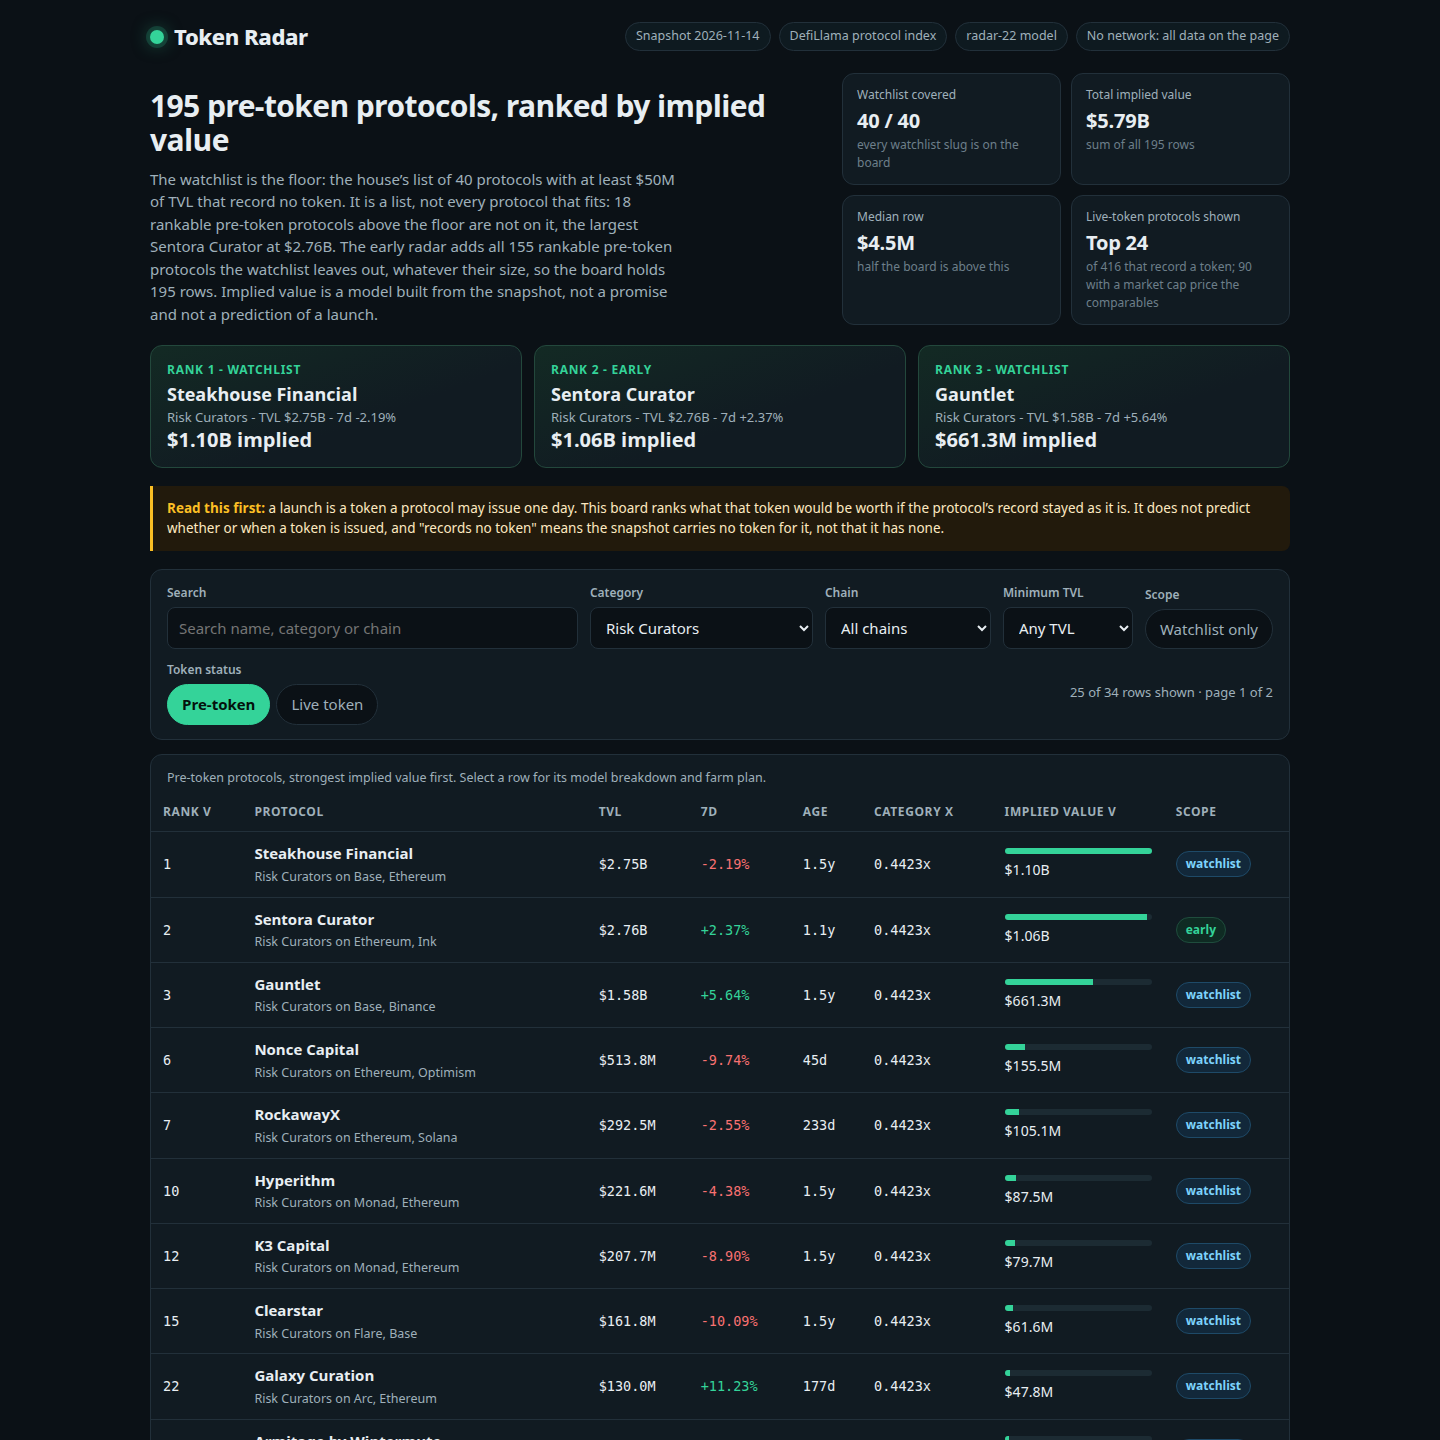
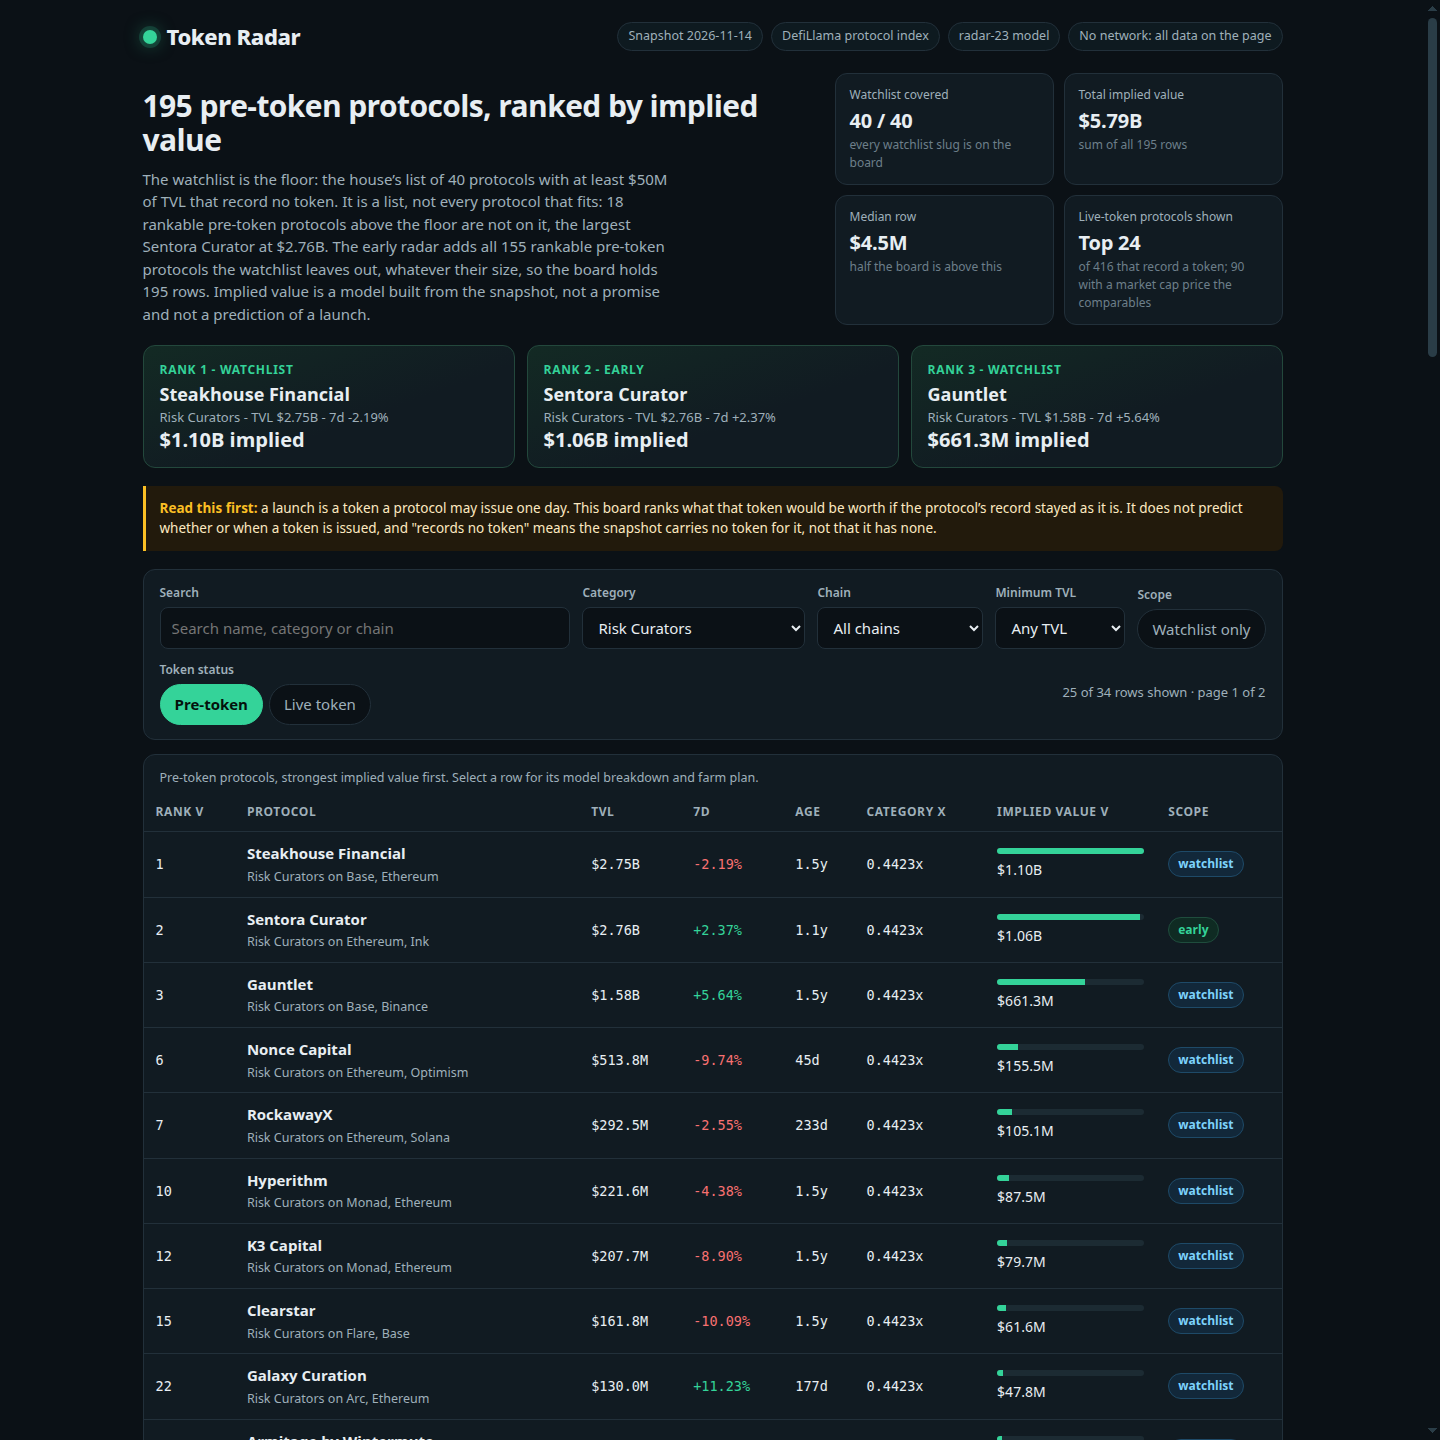
Token Radar radar-23: fix the radar-22 counts, label the correction rounds, say rich single-peer categories

diff --git a/dashboard/app.js b/dashboard/app.js
@@ -1,4 +1,4 @@
-// Token Radar's dashboard (radar-22). It reads window.RADAR (written beside
+// Token Radar's dashboard (radar-23). It reads window.RADAR (written beside
 // dashboard/ by main.ts from the same board.json) and renders the ranked
 // board, the filters, a per-protocol detail view with the model's own
 // breakdown and the protocol's farm plan, and the live-token set kept apart.
@@ -437,8 +437,8 @@
     return el('section', { class: 'panel model' },
       el('h2', { text: 'How implied value is computed' }),
       el('p', { class: 'sub', text: 'Every row is scored by one function of the snapshot figures. The scoring never special-cases a protocol name, and no row is hand-picked. The comparable is the median market-cap-to-TVL ratio of the live-token protocols in the same category, computed from this snapshot at run time, then shrunk toward the market median in log space with a weight of ' + m.shrink_peers + ' peers: ratios multiply, so the shrinkage averages logarithms, and the raw median is never clamped before shrinking. A category with one live peer never prices at its peer\'s ratio, and a category with no live peer uses the market median outright.' }),
-      el('p', { class: 'sub', text: 'The shrinkage is not a guess at a weight: ' + thin + ' of the ' + thinTotal + ' categories priced here have fewer than three live peers, so most multiples would rest on one or two protocols without it. Shrinking in log space matters because the old arithmetic shrink clamped the raw median first: seven single-peer categories, from Options at 1.51x to Prediction Market at 400.20x, all priced at one identical multiple, and a category whose peers trade at 0.002x was lifted to the market by the floor. Now each prices from its own peer, still pulled most of the way to the market, and still capped. With no shrinkage the Risk Curators rows would all price at the 0.80 cap on a single peer; shrunk, they price at ' + (DATA.multiples['Risk Curators'] === undefined ? 'the market median' : DATA.multiples['Risk Curators'].toFixed(4) + 'x') + '.' }),
-      el('p', { class: 'sub', text: 'Farm plans follow the protocol\u2019s category — except where the snapshot\u2019s own record mislabels the protocol, and then the plan follows the protocol\u2019s own documentation instead. Twenty-six plans are corrected that way, in one table in the code: Hive Protocol is B\u00b2 Hive, a BTC staking pool listed as a chain, so its plan stakes BTC for B2 rewards; Firelight is the underwriting side of a cover design listed as insurance, so its plan stakes FXRP for stXRP; Mezo Earn locks BTC for a veBTC vote, not USDC in a governance vault; Abstract is its own Ethereum L2, not Ethereum mainnet, so its plan runs on Abstract; USDD\u2019s vaults take TRX, USDT or WBTC as collateral, never USDC, and its yield comes from sUSDD; DeFi Saver is a management layer that takes no deposits, so its plan opens a position through it and automates it; Bittensor dTAO is a staking system, not an AMM pool, so its plan stakes TAO for alpha; and Polymarket runs no points program, so its plan checks the rewards page that pays in pUSD instead of a claim page. Thirteen more joined them in the last round: seven CDP plans named USDC as collateral where the vaults take something else — Felix takes HYPE to mint feUSD, Bucket takes SUI to mint BUCK, BIMA and BTCFi take BTC to mint USBD and BtcUSD, Kava Mint takes BTC to mint USDX, Monolith takes ETH to borrow Coin, and Swan DAO takes wstETH to mint swanUSD — and six more shapes named the wrong asset: Avant avETH mints against ETH, not USDC; Origami\u2019s leveraged vaults take the yield-bearing asset itself, USDe; Boros margin is the market\u2019s own asset, ETH; Granite takes sBTC as collateral and lends USDCx; Solv Strategies takes BTC for SolvBTC; and Exponent Yield Exchange is an exchange, not a vault, so its plan swaps a yield-bearing asset for its principal token instead of depositing USDC. Three more join them in this round: the two Exponent rows the last round left alone — Risk Tranching\u2019s first and largest market is ONyc, so its plan deposits ONyc into the senior tranche for srONyc LP shares, and Strategy Vaults\u2019 largest vault is the RockawayX-managed onycSOL vault, so its plan deposits SOL — and Figure Markets Prime, where the lending shape\u2019s borrow-against-your-supply is wrong on either side, so its plan lends USDC into a Democratized Prime pool instead. Two more join them in this round, and one of those three is refined: Native Credit Pool is a single-sided supply pool for market makers, so its plan supplies USDC and earns the borrow interest instead of borrowing against a deposit; BounceBit Prime is institutional-only with KYC, so its plan starts with qualified-investor onboarding; and Figure Markets Prime\u2019s USDC goes to a margin pool, not the YLDS HELOC pool, which takes YLDS. The eighth CDP row, STRATO, stays on the generic wording because its own litepaper lists USDC as an accepted CDP collateral at 90% LTV. The scoring never names a protocol; these twenty-six are plan corrections, not a hardcoded ranking.' }),
+      el('p', { class: 'sub', text: 'The shrinkage is not a guess at a weight: ' + thin + ' of the ' + thinTotal + ' categories priced here have fewer than three live peers, so most multiples would rest on one or two protocols without it. Shrinking in log space matters because the old arithmetic shrink clamped the raw median first: seven rich single-peer categories, from Options at 1.51x to Prediction Market at 400.20x, all priced at one identical multiple, and a category whose peers trade at 0.002x was lifted to the market by the floor. Now each prices from its own peer, still pulled most of the way to the market, and still capped. With no shrinkage the Risk Curators rows would all price at the 0.80 cap on a single peer; shrunk, they price at ' + (DATA.multiples['Risk Curators'] === undefined ? 'the market median' : DATA.multiples['Risk Curators'].toFixed(4) + 'x') + '.' }),
+      el('p', { class: 'sub', text: 'Farm plans follow the protocol\u2019s category — except where the snapshot\u2019s own record mislabels the protocol, and then the plan follows the protocol\u2019s own documentation instead. Twenty-six plans are corrected that way, in one table in the code: Hive Protocol is B\u00b2 Hive, a BTC staking pool listed as a chain, so its plan stakes BTC for B2 rewards; Firelight is the underwriting side of a cover design listed as insurance, so its plan stakes FXRP for stXRP; Mezo Earn locks BTC for a veBTC vote, not USDC in a governance vault; Abstract is its own Ethereum L2, not Ethereum mainnet, so its plan runs on Abstract; USDD\u2019s vaults take TRX, USDT or WBTC as collateral, never USDC, and its yield comes from sUSDD; DeFi Saver is a management layer that takes no deposits, so its plan opens a position through it and automates it; Bittensor dTAO is a staking system, not an AMM pool, so its plan stakes TAO for alpha; and Polymarket runs no points program, so its plan checks the rewards page that pays in pUSD instead of a claim page. Thirteen more joined them in radar-20: seven CDP plans named USDC as collateral where the vaults take something else — Felix takes HYPE to mint feUSD, Bucket takes SUI to mint BUCK, BIMA and BTCFi take BTC to mint USBD and BtcUSD, Kava Mint takes BTC to mint USDX, Monolith takes ETH to borrow Coin, and Swan DAO takes wstETH to mint swanUSD — and six more shapes named the wrong asset: Avant avETH mints against ETH, not USDC; Origami\u2019s leveraged vaults take the yield-bearing asset itself, USDe; Boros margin is the market\u2019s own asset, ETH; Granite takes sBTC as collateral and lends USDCx; Solv Strategies takes BTC for SolvBTC; and Exponent Yield Exchange is an exchange, not a vault, so its plan swaps a yield-bearing asset for its principal token instead of depositing USDC. Three more joined them in radar-21: the two Exponent rows the last round left alone — Risk Tranching\u2019s first and largest market is ONyc, so its plan deposits ONyc into the senior tranche for srONyc LP shares, and Strategy Vaults\u2019 largest vault is the RockawayX-managed onycSOL vault, so its plan deposits SOL — and Figure Markets Prime, where the lending shape\u2019s borrow-against-your-supply is wrong on either side, so its plan lends USDC into a Democratized Prime pool instead. Two more joined them in radar-22, and one of those three is refined: Native Credit Pool is a single-sided supply pool for market makers, so its plan supplies USDC and earns the borrow interest instead of borrowing against a deposit; BounceBit Prime is institutional-only with KYC, so its plan starts with qualified-investor onboarding; and Figure Markets Prime\u2019s USDC goes to a margin pool, not the YLDS HELOC pool, which takes YLDS. The eighth CDP row, STRATO, stays on the generic wording because its own litepaper lists USDC as an accepted CDP collateral at 90% LTV. The scoring never names a protocol; these twenty-six are plan corrections, not a hardcoded ranking.' }),
       el('div', { class: 'formula' },
         'multiple = exp((peers x ln(categoryMedian) + ' + m.shrink_peers + ' x ln(marketMedian)) / (peers + ' + m.shrink_peers + ')), clamped to [' + m.multiple_floor + ', ' + m.multiple_cap + ']'
       ),

diff --git a/lib/model.ts b/lib/model.ts
@@ -1,4 +1,4 @@
-// Token Radar's model (radar-22): one sealed snapshot in, one ranked board out.
+// Token Radar's model (radar-23): one sealed snapshot in, one ranked board out.
 //
 // The board covers every slug in the snapshot's watchlist (the floor, never a
 // ceiling) plus every other rankable pre-token protocol the watchlist leaves
@@ -122,7 +122,7 @@ export const MODEL: ModelConstants = {
 };
 
 /** The model's version label: the dashboard names it. */
-export const MODEL_VERSION = 'radar-22';
+export const MODEL_VERSION = 'radar-23';
 
 /** How many live-token protocols the Live token view carries, by market cap. */
 export const LIVE_ROWS = 24;
@@ -505,7 +505,7 @@ function holdDaysFor(age: number | null): number {
   return 30;
 }
 
-/** "a" or "an" before a protocol name: the shapes wrote "a" before every name, so ten rows read "into a Upshift vault", "a Armitage", "a Arrakis" and the like. */
+/** "a" or "an" before a protocol name: the shapes wrote "a" before every name, so thirteen rows read "into a Upshift vault", "a Armitage", "a Arrakis" and the like. */
 function articleFor(name: string): string {
   return /^[AEIOU]/i.test(name) ? 'an' : 'a';
 }

diff --git a/main.ts b/main.ts
@@ -1,4 +1,4 @@
-// Token Radar (radar-22): the entry program, Node 22, standard library only.
+// Token Radar (radar-23): the entry program, Node 22, standard library only.
 //
 // It reads the sealed snapshot from /input/snapshot.json (or --input
 // <file|dir>), scores every rankable pre-token protocol with the model in

diff --git a/README.md b/README.md
@@ -6,6 +6,43 @@ staked or bridged product of one that trades, ranks them by what their launch
 would be worth, and hands in a web dashboard with the board, a detail view
 for every protocol, filters, and a farm plan for each row.
 
+## The model (radar-23)
+
+Radar-23 keeps radar-22's formula and every implied value, and fixes
+three places where the entry's own words disagreed with its own
+numbers — all found by rebuilding radar-21 and diffing the boards,
+and by recounting the comparables from the snapshot. First, radar-22
+undercounted its own change: its README said the article fix moved
+10 rows and 13 rows in all, but the radar-21 to radar-22 board diff
+moves 16 rows — the three corrections plus thirteen article rows
+(Upshift, Armitage, UltraYield Curator, infiniFi, August Digital,
+Avant avUSD, Arrakis, IPOR Fusion, Anthias Labs, alphagrowth, Agua,
+UltraYield Vaults and Aftermath afLP) — so the counts now say
+thirteen and sixteen, in the README and in the code's own comment.
+Second, the model panel said seven single-peer categories priced at
+one identical multiple under the old arithmetic shrink, but the
+comparables table holds twelve single-peer categories; only the seven
+whose raw median sits above the cap — Chain, Collateral Management,
+Decentralized AI, NFT Marketplace, Options, Prediction Market and
+Risk Curators — collapsed to that one number, and the five cheaper
+ones never did, so the panel now says seven rich single-peer
+categories, the wording the model's own comment already used.
+Third, the model panel's correction history narrated three different
+rounds as "the last round" and "this round" twice, so a reader could
+not tell which round added which plans; the three groups are now
+labelled radar-20, radar-21 and radar-22. The three radar-22
+corrections themselves were re-verified against their sources:
+Native Credit Pool is a single-sided supply pool for market makers
+to borrow from, per DefiLlama's own description, with borrow
+interest as its revenue; BounceBit Prime is for institutional and
+accredited investors with KYC/AML, custodial management and
+transparent reporting, its BENJI fund for qualified investors; and
+Figure's own Prime page lists a YLDS HELOC pool that takes YLDS
+and USD/USDC/USDT margin pools, so USDC lends into a margin pool.
+The board is unchanged: same 195 rows, same ranks, same implied
+values; only prose moves, and the screenshots are retaken for the
+radar-23 label.
+
 ## The model (radar-22)
 
 Radar-22 keeps radar-21's formula and every implied value, and fixes
@@ -32,7 +69,7 @@ radar-21, is refined: Figure's own Prime page lists a YLDS HELOC
 pool, which takes YLDS (deposit USD, buy YLDS, lend into the pool),
 and USD/USDC/USDT margin pools — so USDC lends into a margin pool,
 not the HELOC pool, and its plan now says so. Fourth, the article:
-ten rows read "into a Upshift vault", "a Armitage", "a Arrakis" and
+thirteen rows read "into a Upshift vault", "a Armitage", "a Arrakis" and
 the like, because the shapes wrote "a" before every protocol name;
 the shapes now write "an" before a vowel-initial name. Two open
 items are settled with no fix: the Monolith "ChainSecurity audit,
@@ -42,8 +79,8 @@ review of June 2025 is a separate, earlier audit — and Loopscale is
 not in the snapshot at all, so its fixed-term loans need no plan.
 Twenty-six of 195 plans are now corrected in the one table. The
 board is unchanged: same 195 rows, same ranks, same implied values;
-only farm plans move, on 13 rows (3 corrections plus the article on
-10 rows), and the screenshots are retaken for the radar-22 label.
+only farm plans move, on 16 rows (3 corrections plus the article on
+13 rows), and the screenshots are retaken for the radar-22 label.
 
 ## The model (radar-21)
 
